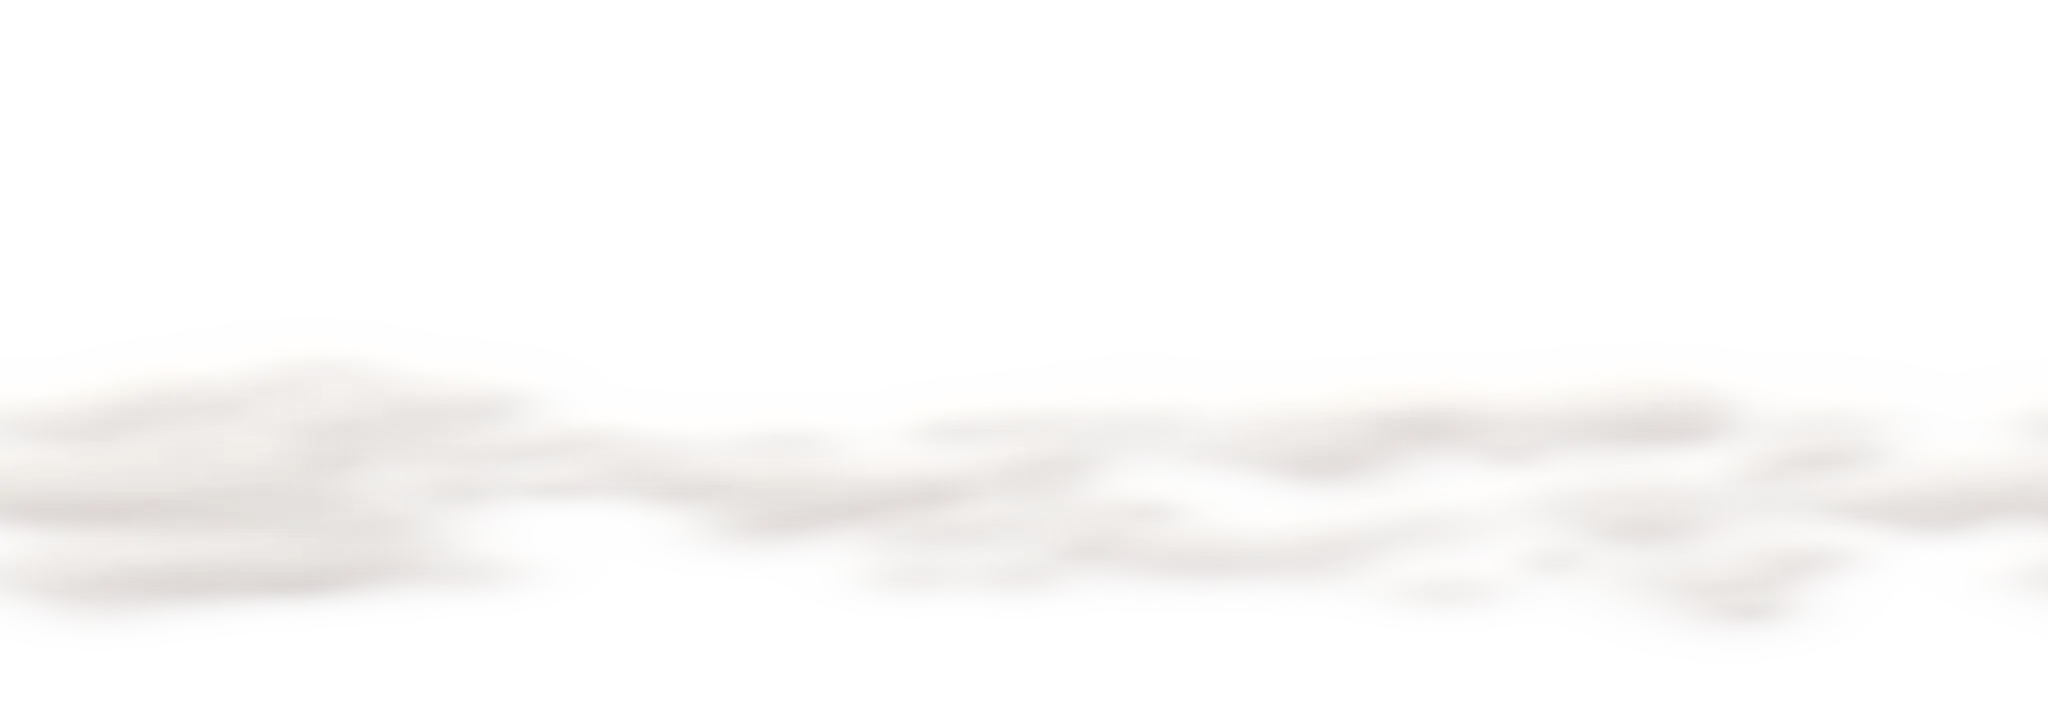
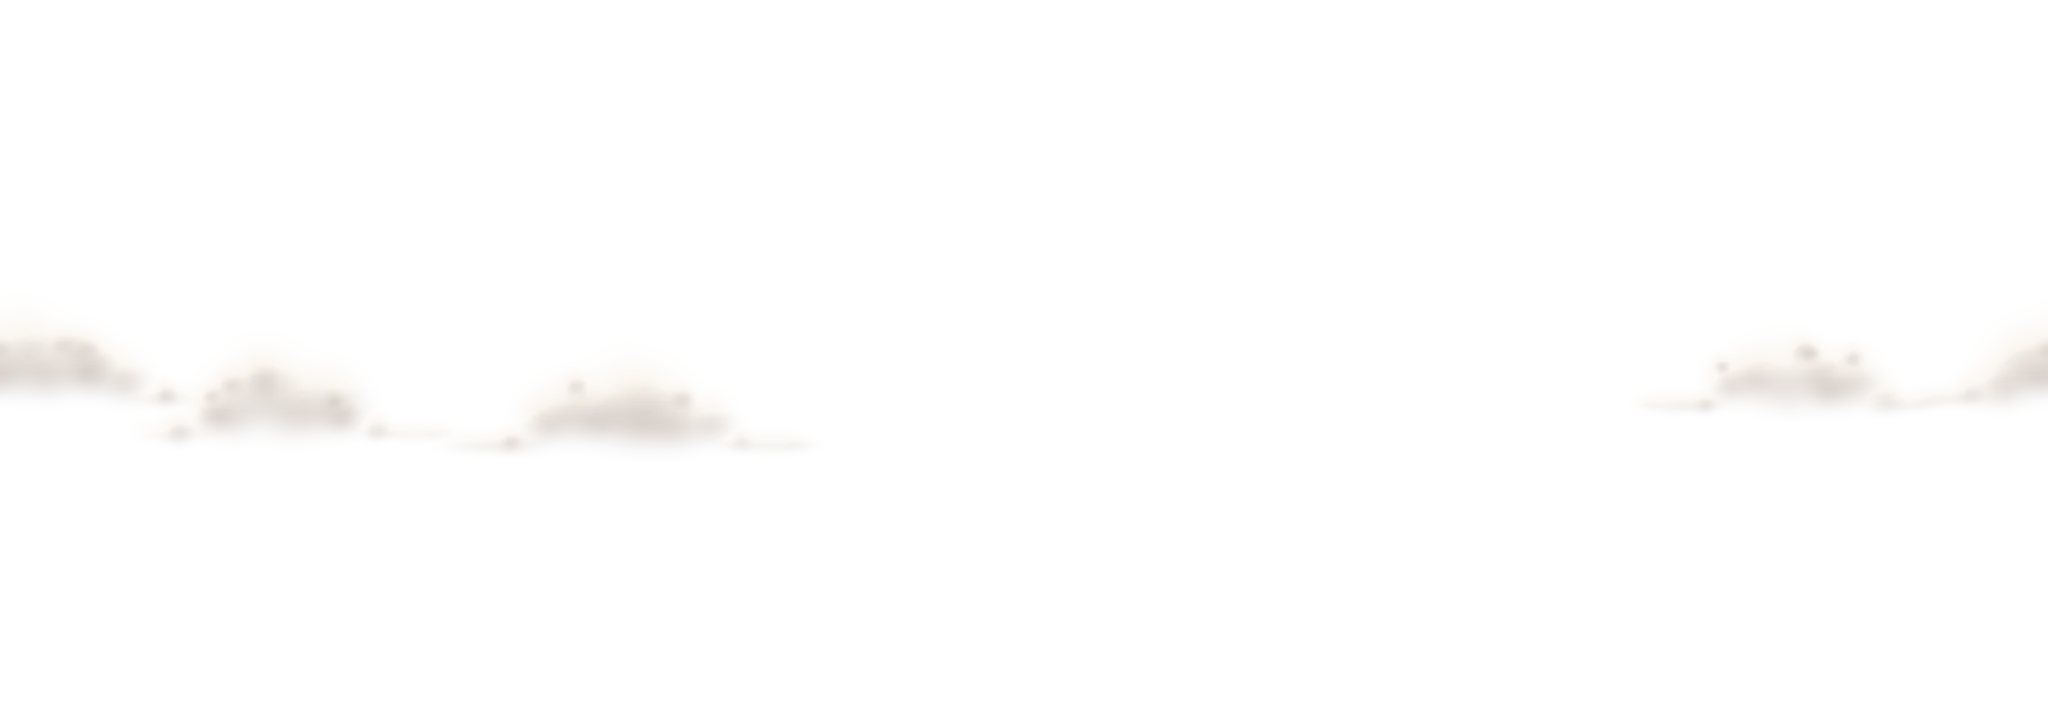
Clouds: scattered evening cumulus; the join hidden by colour
- The solid bank read as a white wall. The clouds are now separate cumulus
  in evening light (warm tops, smoky undersides, soft flat bases) with sky
  between them, in three drifting layers.
- The join is no longer covered but dissolved: Our Approach's foot deepens
  to one dark tone, and the first destination rises out of the same tone.
- html takes suppressHydrationWarning: the head script sets the viewport
  heights on it before React hydrates, which showed as "1 Issue" in dev.

diff --git a/src/components/home/SectionClouds.tsx b/src/components/home/SectionClouds.tsx
@@ -9,25 +9,24 @@ import { useReducedMotion } from '@/hooks/useReducedMotion'
 const LINGER = 0.45
 
 /**
- * A bank of cloud along the top of the destinations, so the first of them
- * rises out of it instead of starting at a line.
+ * Evening clouds over the join between Our Approach and the destinations.
  *
- * It takes no height in the page: a zero-height band on the join between the
- * sections. The bank's body is opaque from the join down and rides on the
- * page with it, pushing Our Approach up and away; only its crowns rise above
- * the join, into the space beneath that section's words. Below the join the
- * cloud thins into the photograph.
+ * The join is hidden by colour, not covered: Our Approach's foot deepens to
+ * one dark tone and the first destination rises out of the same tone, so the
+ * two meet without an edge. Over it float scattered cumulus in evening light,
+ * warm on top and smoky beneath, with sky between them; they take no height
+ * in the page and none rises more than a few pixels above the join, into the
+ * room beneath that section's words.
  *
- * Three layers, each drifting sideways on its own (the body slowly left to
- * right, a softer bank behind and loose wisps in front right to left, the
- * nearer the faster); as the join rises through the screen the two loose
- * layers move up at their own speeds over the photograph. Once the join has
- * gone past the top of the screen the bank stops keeping pace with the page:
- * it rises at under half speed, thinning as it goes, and is gone as the
- * first destination rises away beneath it.
+ * Three layers, each drifting sideways on its own (the middle one slowly left
+ * to right, a fainter row behind and lower, nearer ones right to left, the
+ * nearer the faster), and rising at their own speeds as the join passes up
+ * the screen. Once the join has gone past the top, the clouds stop keeping
+ * pace: they rise at under half speed and thin away over the first
+ * destination.
  *
- * The clouds are original images made for the site from thousands of lit soft
- * puffs (public/wow/clouds-core|back|front.webp); each tiles left to right.
+ * The clouds are original images rendered for the site from lit soft puffs
+ * (public/wow/clouds-core|back|front.webp); each tiles left to right.
  */
 export default function SectionClouds() {
   const ref = useRef<HTMLDivElement>(null)
@@ -68,10 +67,16 @@ export default function SectionClouds() {
   }, [reduced])
 
   return (
+    <>
+      {/* The join itself: the photograph rises out of the same deep tone
+          Our Approach ends in, so there is no line to see. It stays on the
+          join; only the clouds linger. */}
+      <div className="clouds_join" aria-hidden="true" />
     <div ref={ref} className="clouds" aria-hidden="true">
       <div className="clouds_layer clouds_back"><div className="clouds_strip" /></div>
       <div className="clouds_layer clouds_core"><div className="clouds_strip" /></div>
       <div className="clouds_layer clouds_front"><div className="clouds_strip" /></div>
     </div>
+    </>
   )
 }

diff --git a/src/styles/home-sections.css b/src/styles/home-sections.css
@@ -1133,6 +1133,16 @@
   opacity: 0.52;
 }
 
+/* The foot deepens to the join's tone, which the destinations rise out of
+   (see SectionClouds); the cards and words lie above it. */
+.snake_grounds::after {
+  content: '';
+  position: absolute;
+  inset: auto 0 0;
+  height: 30%;
+  background: linear-gradient(to bottom, rgb(28 22 17 / 0), rgb(28 22 17 / 0.85) 70%, rgb(28 22 17));
+}
+
 .snake_ground::after {
   content: '';
   position: absolute;
@@ -1719,6 +1729,22 @@
 }
 
 /* ═══ Clouds over the join into the destinations ═══════════════════════ */
+
+/* The first destination rises out of the tone Our Approach ends in. */
+.clouds_join {
+  position: relative;
+  z-index: 29;
+  height: 0;
+  pointer-events: none;
+}
+
+.clouds_join::before {
+  content: '';
+  position: absolute;
+  inset: 0 0 auto;
+  height: 45vh;
+  background: linear-gradient(to bottom, rgb(28 22 17), rgb(28 22 17 / 0.85) 25%, rgb(28 22 17 / 0.35) 60%, rgb(28 22 17 / 0));
+}
 
 /*
  * A zero-height band on the join (see SectionClouds), above both sections.

diff --git a/src/app/layout.tsx b/src/app/layout.tsx
@@ -63,7 +63,9 @@ const stableViewport = `(function () {
 
 export default function RootLayout({ children }: { children: React.ReactNode }) {
   return (
-    <html lang="en" className={`${playfair.variable} ${garamond.variable} ${imperial.variable}`}>
+    // The head script below sets the viewport heights on <html> before React
+    // hydrates, so its style differs from the server's by design.
+    <html lang="en" className={`${playfair.variable} ${garamond.variable} ${imperial.variable}`} suppressHydrationWarning>
       <head>
         <script dangerouslySetInnerHTML={{ __html: stableViewport }} />
       </head>
